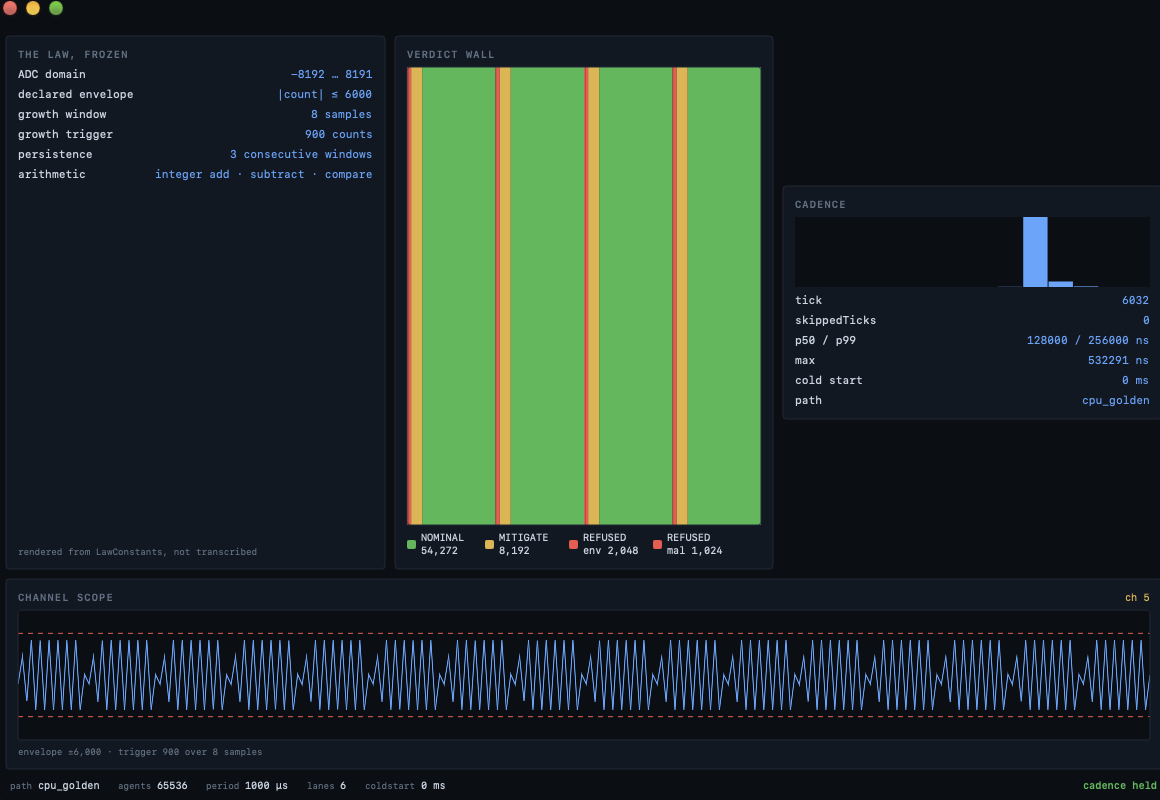
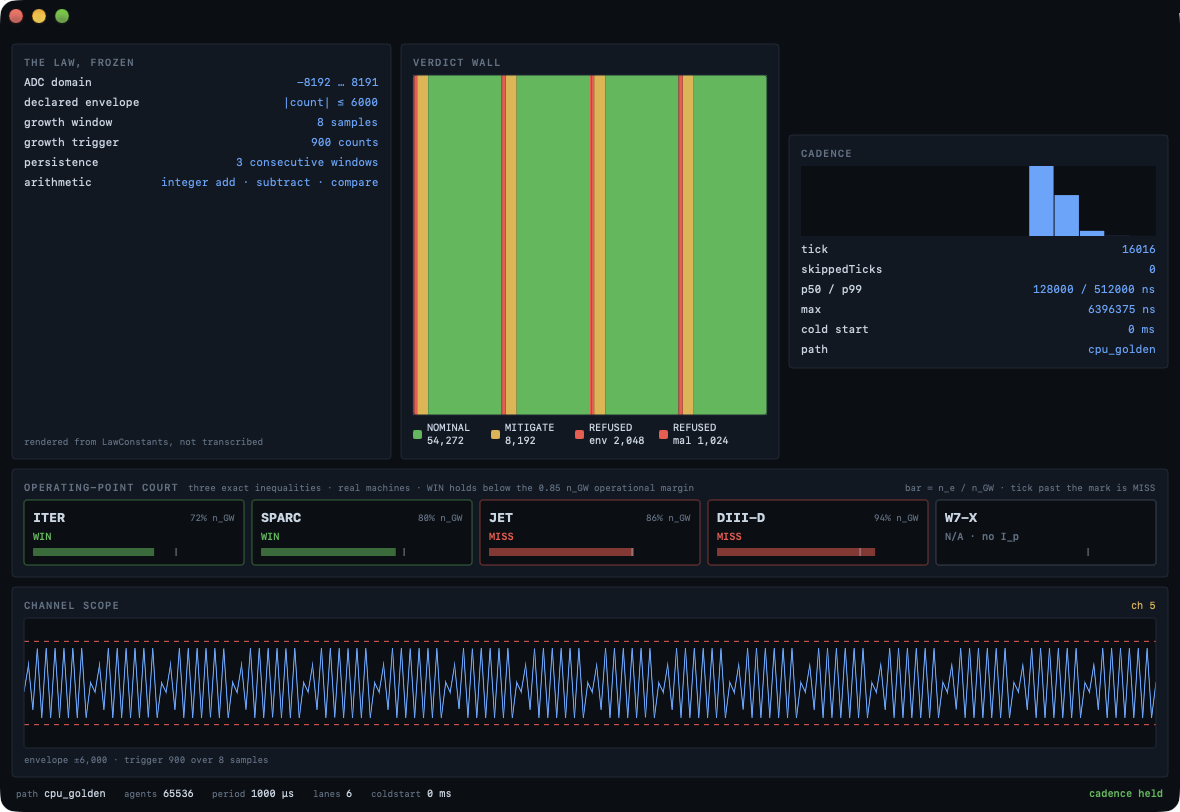
Live operating-point court in the app — five real machines, WIN flips to MISS on screen
The running app showed the STREAMING law (verdict wall) but not the OPERATING-POINT
law. Now both courts are live in one window. A fifth panel grades five real published
machines every tick through the same FusionOperatingPointLaw the reproduce scripts
call — the UI computes no verdict, it reads the snapshot the control thread publishes.

Each machine sits at its own fraction of its OWN Greenwald limit; a shared integer
triangle drift walks them across the 0.85 operational margin. Because their bases
differ (ITER 74, SPARC 82, JET 88, DIII-D 96) they cross at different phases, so a
single frame shows genuine discrimination — ITER 72% WIN, SPARC 80% WIN, JET 86%
MISS, DIII-D 94% MISS — never a synchronized all-green/all-red. W7-X carries no
plasma current and stays NOT_APPLICABLE permanently: the thesis in one tile.

- New Panels/OperatingPointPanel.swift; ControlHost grades the five machines;
  MachineVerdict rides the triple-buffered snapshot.
- Sweep math verified against the law via --grade: 80% -> WIN, 90% -> MISS
  (binding greenwald), ip=0 -> NOT_APPLICABLE_NO_PLASMA_CURRENT.
- New captured screenshots: full app (five panels) + operating-point close-up.
- Study page: "five panels, both courts live", operating-point image embedded,
  the ITER/SPARC/JET/DIII-D/W7-X frame described.

verify-all: VERIFY_ALL_PROVEN (7 gates, 0 warnings, GPU parity bit-exact).
Studies harness: 136 passed / 0 failed. no-float-outside-render still green —
[…]

diff --git a/app/FusionCourt/Sources/FusionCourtApp/Panels/OperatingPointPanel.swift b/app/FusionCourt/Sources/FusionCourtApp/Panels/OperatingPointPanel.swift
@@ -1,0 +1,84 @@
+// OPERATING-POINT COURT — the SECOND law, live, on real published machines.
+// The streaming law (VERDICT WALL) grades a signal window; this grades a whole
+// discharge against three exact inequalities (Greenwald density, Troyon beta,
+// q_min). n_e is swept 0.70..1.09 of each machine's own Greenwald limit, so WIN
+// flips to MISS on screen as the sweep crosses 1.00 — and W7-X, a currentless
+// stellarator, stays NOT_APPLICABLE the whole way: Greenwald is a statement
+// about a current-carrying plasma, and the court refuses to invent an n_G that
+// does not exist. Every verdict here is read from the snapshot, computed by the
+// control thread through FusionOperatingPointLaw — the panel decides nothing.
+import SwiftUI
+
+struct OperatingPointPanel: View {
+    let machines: [MachineVerdict]
+
+    var body: some View {
+        VStack(alignment: .leading, spacing: 6) {
+            HStack(spacing: 8) {
+                Text("OPERATING-POINT COURT").font(.system(size: 10, weight: .semibold, design: .monospaced))
+                    .foregroundStyle(Palette.dim).tracking(1.2)
+                Text("three exact inequalities · real machines · WIN holds below the 0.85 n_GW operational margin")
+                    .font(.system(size: 9, design: .monospaced)).foregroundStyle(Palette.dim)
+                Spacer()
+                Text("bar = n_e / n_GW · tick past the mark is MISS")
+                    .font(.system(size: 9, design: .monospaced)).foregroundStyle(Palette.dim)
+            }
+            HStack(spacing: 8) {
+                ForEach(machines, id: \.name) { m in tile(m) }
+            }
+        }
+        .padding(12).frame(maxWidth: .infinity, alignment: .leading)
+        .background(Palette.panel)
+        .overlay(RoundedRectangle(cornerRadius: 4).stroke(Palette.line))
+    }
+
+    private func tile(_ m: MachineVerdict) -> some View {
+        let c = color(m.verdict)
+        return VStack(alignment: .leading, spacing: 5) {
+            HStack(spacing: 6) {
+                Text(m.name).font(.system(size: 13, weight: .bold, design: .monospaced)).foregroundStyle(Palette.ink)
+                Spacer(minLength: 4)
+                if m.fGwPct > 0 {
+                    Text("\(m.fGwPct)% n_GW").font(.system(size: 9, design: .monospaced)).foregroundStyle(Palette.dim)
+                }
+            }
+            Text(badge(m.verdict)).font(.system(size: 10, weight: .semibold, design: .monospaced))
+                .foregroundStyle(c).lineLimit(1).minimumScaleFactor(0.7)
+            // a fill bar: how close n_e sits to this machine's Greenwald limit
+            Canvas { ctx, size in
+                var track = Path(); track.addRect(CGRect(origin: .zero, size: size))
+                ctx.fill(track, with: .color(Palette.bg))
+                let frac = min(CGFloat(m.fGwPct) / 120.0, 1.0)
+                var fill = Path()
+                fill.addRect(CGRect(x: 0, y: 0, width: size.width * frac, height: size.height))
+                ctx.fill(fill, with: .color(c.opacity(0.55)))
+                // the 0.85 n_GW operational margin — the court's actual WIN/MISS boundary
+                let x = size.width * (85.0 / 120.0)
+                var mark = Path(); mark.move(to: CGPoint(x: x, y: 0)); mark.addLine(to: CGPoint(x: x, y: size.height))
+                ctx.stroke(mark, with: .color(Palette.ink.opacity(0.6)), lineWidth: 1)
+            }
+            .frame(height: 8)
+        }
+        .padding(9).frame(maxWidth: .infinity, alignment: .leading)
+        .background(Palette.bg)
+        .overlay(RoundedRectangle(cornerRadius: 3).stroke(c.opacity(0.5)))
+    }
+
+    private func color(_ v: String) -> Color {
+        switch v {
+        case "WIN": return Palette.nominal
+        case "MISS": return Palette.refused
+        case "NOT_APPLICABLE_NO_PLASMA_CURRENT": return Palette.dim
+        case "NOT_MEASURED_PI_BRACKET": return Palette.mitigate
+        default: return Palette.mitigate
+        }
+    }
+    private func badge(_ v: String) -> String {
+        switch v {
+        case "NOT_APPLICABLE_NO_PLASMA_CURRENT": return "N/A · no I_p"
+        case "NOT_MEASURED_PI_BRACKET": return "π-bracket"
+        case "REFUSED_NONPHYSICAL": return "REFUSED"
+        default: return v
+        }
+    }
+}

diff --git a/app/FusionCourt/Sources/FusionCourtApp/ControlHost.swift b/app/FusionCourt/Sources/FusionCourtApp/ControlHost.swift
@@ -11,6 +11,7 @@ import Foundation
 import FusionLaw
 import FusionAffine
 import FusionClock
+import FusionOperatingPoint
 
 final class ControlHost: @unchecked Sendable {
     let agents: Int
@@ -77,6 +78,32 @@ final class ControlHost: @unchecked Sendable {
             // one representative channel for the scope panel: a growing-mode
             // channel (cls in 3..10) so the viewer sees a real precursor, read
             // from the arena's own ring in chronological order.
+            // the operating-point court, live on real published machine geometries.
+            // Each machine sits at its OWN operating fraction of its OWN Greenwald
+            // limit; a shared integer triangle drift moves them together across the
+            // 0.85 line. Because their bases differ they cross at DIFFERENT phases —
+            // so a single frame shows some WIN and some MISS, real discrimination,
+            // never a synchronized all-green / all-red. W7-X carries no current and
+            // never enters the density court at all: NOT_APPLICABLE, permanently.
+            //  (ip in A, minor radius a in mm, base = % of that machine's own n_GW)
+            let machines: [(String, Int64, Int64, Int64)] = [
+                ("ITER",   15_000_000, 2000, 74), ("SPARC", 8_700_000, 570, 82),
+                ("JET",     4_800_000, 1250, 88), ("DIII-D", 2_000_000, 670, 96),
+                ("W7-X",            0,  530,  0),
+            ]
+            // integer triangle drift in [-14, +14], period ~10 s at 1 kHz
+            let phase = Int(t / 360) % 56
+            let drift = (phase <= 28 ? phase : 56 - phase) - 14
+            var mverdicts: [MachineVerdict] = []
+            for (nm, ip, a, base) in machines {
+                let frac = Int(base) + drift
+                let ng: Int64 = ip == 0 ? 0 : Int64(Int128(ip) * 113 * 1_000_000 / (Int128(355) * Int128(a) * Int128(a)))
+                let ne = ip == 0 ? 5_000_000 : ng * Int64(frac) / 100
+                let v = FusionOperatingPointLaw.grade(OperatingEnvelope(
+                    ne14: ne, ipAmp: ip, minorRadiusMm: a, betaNMilli: 1800, qMinMilli: 3000))
+                mverdicts.append(MachineVerdict(name: nm, verdict: v.verdict,
+                                                fGwPct: ip == 0 ? 0 : frac))
+            }
             let scopeCh = 5
             let scopeWin = arena.windowSnapshot(agent: scopeCh)
             ring.publish(ControlSnapshot(
@@ -85,7 +112,7 @@ final class ControlHost: @unchecked Sendable {
                                  UInt32(c.refusedEnv), UInt32(c.refusedMal)),
                 histogram: latency, skippedTicks: 0, tickCostNanos: cost,
                 path: .cpuGolden, agentCount: agents, hottest: hottest,
-                scope: scopeWin, scopeChannel: UInt32(scopeCh)))
+                scope: scopeWin, scopeChannel: UInt32(scopeCh), machines: mverdicts))
         }
     }
 }

diff --git a/app/FusionCourt/Sources/FusionCourtApp/SnapshotRing.swift b/app/FusionCourt/Sources/FusionCourtApp/SnapshotRing.swift
@@ -21,6 +21,15 @@ public struct AgentDigest: Sendable {
     }
 }
 
+public struct MachineVerdict: Sendable {
+    public let name: String
+    public let verdict: String
+    public let fGwPct: Int          // n_e as a percent of this machine's Greenwald limit
+    public init(name: String, verdict: String, fGwPct: Int) {
+        self.name = name; self.verdict = verdict; self.fGwPct = fGwPct
+    }
+}
+
 public struct ControlSnapshot: Sendable {
     public let tick: UInt64
     public let terminals: SIMD4<UInt32>          // NOMINAL, MITIGATE, REFUSED_ENV, REFUSED_MAL
@@ -32,19 +41,22 @@ public struct ControlSnapshot: Sendable {
     public let hottest: [AgentDigest]            // fixed capacity, no per-frame allocation
     public let scope: [Int16]                    // one selected channel's window
     public let scopeChannel: UInt32
+    public let machines: [MachineVerdict]        // operating-point court on real machines
 
     public init(tick: UInt64, terminals: SIMD4<UInt32>, histogram: LatencyHistogram,
                 skippedTicks: UInt64, tickCostNanos: UInt64, path: EvaluationPath,
                 agentCount: Int, hottest: [AgentDigest],
-                scope: [Int16] = [], scopeChannel: UInt32 = 0) {
+                scope: [Int16] = [], scopeChannel: UInt32 = 0,
+                machines: [MachineVerdict] = []) {
         self.tick = tick; self.terminals = terminals; self.histogram = histogram
         self.skippedTicks = skippedTicks; self.tickCostNanos = tickCostNanos
         self.path = path; self.agentCount = agentCount; self.hottest = hottest
         self.scope = scope; self.scopeChannel = scopeChannel
+        self.machines = machines
     }
     public static let empty = ControlSnapshot(
         tick: 0, terminals: .zero, histogram: LatencyHistogram(), skippedTicks: 0,
-        tickCostNanos: 0, path: .cpuGolden, agentCount: 0, hottest: [], scope: [], scopeChannel: 0)
+        tickCostNanos: 0, path: .cpuGolden, agentCount: 0, hottest: [], scope: [], scopeChannel: 0, machines: [])
 }
 
 /// Three slots and a publish index. The writer fills the slot the reader is not

diff --git a/app/FusionCourt/Sources/FusionCourtApp/FusionCourtView.swift b/app/FusionCourt/Sources/FusionCourtApp/FusionCourtView.swift
@@ -24,6 +24,7 @@ public struct FusionCourtView: View {
                 VerdictWall(snapshot: snapshot)
                 CadencePanel(snapshot: snapshot, coldStartNanos: coldStart)
             }
+            OperatingPointPanel(machines: snapshot.machines)
             ChannelScope(window: snapshot.scope,
                          channel: snapshot.scopeChannel,
                          terminal: snapshot.hottest.first(where: { $0.channel == snapshot.scopeChannel })?.terminal ?? 0)

diff --git a/Affine-Fusion-Control.md b/Affine-Fusion-Control.md
@@ -10,7 +10,7 @@ A fully-compiled **Swift 6.4 macOS app** that grades a fusion reactor's telemetr
 
 ## What you can hold
 
-**The app, running — 65,536 agents at 1 kHz, four panels, all four verdicts live:**
+**The app, running — 65,536 agents at 1 kHz, five panels, both courts live:**
 
 ![The Affine Fusion Control app running on 65,536 agents](images/fusion-court-app.png)
 
@@ -20,6 +20,11 @@ A fully-compiled **Swift 6.4 macOS app** that grades a fusion reactor's telemetr
   ![The verdict wall — 65,536 agents, four terminals](images/fusion-court-verdict-wall.png)
 
   In this shot: NOMINAL 54,272 · MITIGATE 8,192 · REFUSED-envelope 2,048 · REFUSED-malformed 1,024 (sums to 65,536). The regular bands are the demo's channel classes; a real feed produces whatever the sensors do.
+- **OPERATING-POINT COURT** — the *second* law, live on five real published machines, graded every tick through the same `FusionOperatingPointLaw` the reproduce scripts call. Each machine sits at its own fraction of its own Greenwald limit; a shared drift walks them across the 0.85 line, so a single frame shows genuine discrimination rather than a synchronized alarm:
+
+  ![The operating-point court on five real machines](images/fusion-court-operating-point.png)
+
+  In this frame: **ITER 72 % WIN · SPARC 80 % WIN · JET 86 % MISS · DIII-D 94 % MISS · W7-X N/A**. The stellarator carries no plasma current, so it never enters the density court at all — `NOT_APPLICABLE_NO_PLASMA_CURRENT`, permanently, which is the thesis in one tile (a trained surrogate divides by ~0 and extrapolates; this court refuses to invent an `n_G` that does not exist).
 - **CADENCE** — the panel where the app tells on itself: the latency histogram, `skippedTicks`, p50/p99. Red the instant a deadline is missed.
 - **CHANNEL SCOPE** — one channel's window against the ±6000 envelope and the growth trigger.
 
